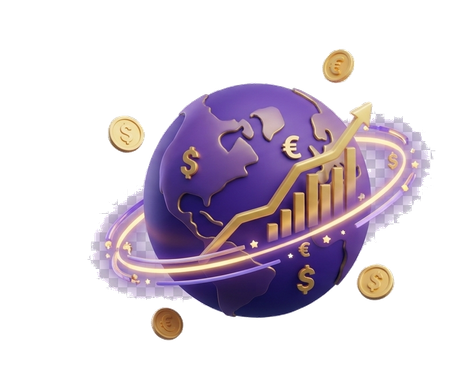
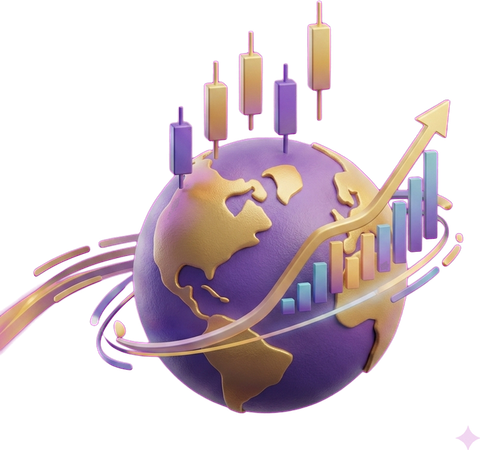
Rediseñar los planetas del hero de "Qué enseña la app" (Obol Aprende.dc.html)
Nuevos assets con fondo magenta sólido (más limpios que los anteriores en ajedrezado), y el cuarto planeta cambia de "juegos" a "conocimiento" (observatorio, libros, fórmulas). Se adopta el estilo de animación del diseño: flotación idle sutil + giro 3D en eje al pasar el mouse (antes era una rotación 2D simple).

diff --git a/docs/aprende.html b/docs/aprende.html
@@ -48,19 +48,29 @@
   @media (prefers-reduced-motion: reduce) {
     .obol-rise, .obol-reveal { animation: none !important; opacity: 1 !important; transform: none !important; }
   }
-  @keyframes obolPlanetFloat { 0%,100% { transform: translateY(0); } 50% { transform: translateY(-10px); } }
-  .obol-planet { animation: obolPlanetFloat 6s ease-in-out infinite; }
-  .obol-planet img { transition: transform 1.1s cubic-bezier(.34,.06,.16,.96); transform-origin: 50% 50%; }
-  .obol-planet:hover img, .obol-planet:focus-visible img { transform: rotate(1turn); }
-  @media (max-width: 900px) {
+  @keyframes obolFadeIn { from { opacity: 0; } to { opacity: 1; } }
+  @keyframes obolFloat { 0%, 100% { transform: translate3d(0,-10px,0); } 50% { transform: translate3d(0,10px,0); } }
+  @keyframes obolSpinAxis {
+    0%   { transform: perspective(900px) rotateX(4deg) rotateY(0deg) scale(1); }
+    25%  { transform: perspective(900px) rotateX(2deg) rotateY(36deg) scale(.985); }
+    50%  { transform: perspective(900px) rotateX(4deg) rotateY(0deg) scale(1); }
+    75%  { transform: perspective(900px) rotateX(6deg) rotateY(-36deg) scale(.985); }
+    100% { transform: perspective(900px) rotateX(4deg) rotateY(0deg) scale(1); }
+  }
+  .obol-planet { position: absolute; opacity: 0; z-index: 1; animation: obolFadeIn 1.2s ease .25s forwards, obolFloat 6s ease-in-out 1.4s infinite; }
+  .obol-planet > span { display: block; transition: transform .4s cubic-bezier(.22,.61,.36,1); }
+  .obol-planet:hover > span { transform: scale(1.05); }
+  .obol-planet img { display: block; width: 100%; height: auto; }
+  .obol-planet:hover img { animation: obolSpinAxis 4.2s cubic-bezier(.45,0,.55,1) infinite; transform-style: preserve-3d; }
+  @media (max-width: 1120px) {
     .obol-planet { display: none; }
   }
   @media (max-width: 640px) {
     .nav-text-link { display: none; }
   }
   @media (prefers-reduced-motion: reduce) {
-    .obol-planet { animation: none; }
-    .obol-planet img { transition: none; }
+    .obol-planet { animation: none !important; opacity: 1 !important; }
+    .obol-planet > span, .obol-planet img { animation: none !important; transform: none !important; }
   }
 </style>
 </head>
@@ -85,17 +95,17 @@
     <div style="position:absolute;inset:0;background-image:radial-gradient(circle at 82% 18%,rgba(74,124,224,.26),transparent 55%);pointer-events:none;"></div>
     <div style="position:absolute;inset:0;background-image:linear-gradient(rgba(255,255,255,.035) 1px,transparent 1px),linear-gradient(90deg,rgba(255,255,255,.035) 1px,transparent 1px);background-size:44px 44px;-webkit-mask-image:linear-gradient(180deg,rgba(0,0,0,.85),transparent 82%);mask-image:linear-gradient(180deg,rgba(0,0,0,.85),transparent 82%);pointer-events:none;"></div>
 
-    <div class="obol-planet" aria-hidden="true" style="position:absolute;top:6%;left:1%;width:clamp(150px,16vw,240px);animation-delay:.2s;">
-      <img src="./assets/aprende2/planet_ahorro.png" alt="" style="width:100%;height:auto;display:block;filter:drop-shadow(0 16px 26px rgba(4,10,24,.5));">
+    <div class="obol-planet" aria-hidden="true" style="left:12%;top:30%;width:clamp(146px,15.3vw,244px);transform:translate(-43.1%,-62.5%);">
+      <span><img src="./assets/aprende2/planet_ahorro.png" alt="Mundo del ahorro" style="filter:drop-shadow(0 26px 30px rgba(4,10,26,.5)) drop-shadow(0 0 46px rgba(94,196,160,.22));"></span>
     </div>
-    <div class="obol-planet" aria-hidden="true" style="position:absolute;top:2%;right:1%;width:clamp(150px,16vw,240px);animation-delay:.9s;">
-      <img src="./assets/aprende2/planet_mercados.png" alt="" style="width:100%;height:auto;display:block;filter:drop-shadow(0 16px 26px rgba(4,10,24,.5));">
+    <div class="obol-planet" aria-hidden="true" style="left:88%;top:30%;width:clamp(177px,18.6vw,296px);transform:translate(-56.0%,-60.9%);animation-delay:.3s;">
+      <span><img src="./assets/aprende2/planet_mercados.png" alt="Mundo de mercados e inversiones" style="filter:drop-shadow(0 26px 30px rgba(4,10,26,.5)) drop-shadow(0 0 48px rgba(150,110,235,.28));"></span>
     </div>
-    <div class="obol-planet" aria-hidden="true" style="position:absolute;bottom:0%;right:4%;width:clamp(130px,13vw,200px);animation-delay:1.5s;">
-      <img src="./assets/aprende2/planet_juegos.png" alt="" style="width:100%;height:auto;display:block;filter:drop-shadow(0 16px 26px rgba(4,10,24,.5));">
+    <div class="obol-planet" aria-hidden="true" style="left:15%;top:76%;width:clamp(147px,15.4vw,245px);transform:translate(-47.4%,-61.3%);animation-delay:.55s;">
+      <span><img src="./assets/aprende2/planet_argentina.png" alt="Mundo de la economía argentina" style="filter:drop-shadow(0 26px 30px rgba(4,10,26,.5)) drop-shadow(0 0 44px rgba(120,180,235,.22));"></span>
     </div>
-    <div class="obol-planet" aria-hidden="true" style="position:absolute;bottom:2%;left:4%;width:clamp(150px,16vw,240px);animation-delay:.55s;">
-      <img src="./assets/aprende2/planet_argentina.png" alt="" style="width:100%;height:auto;display:block;filter:drop-shadow(0 16px 26px rgba(4,10,24,.5));">
+    <div class="obol-planet" aria-hidden="true" style="left:85%;top:76%;width:clamp(146px,15.3vw,244px);transform:translate(-47.4%,-58.0%);animation-delay:.15s;">
+      <span><img src="./assets/aprende2/planet_conocimiento.png" alt="Mundo del conocimiento" style="filter:drop-shadow(0 26px 30px rgba(4,10,26,.5)) drop-shadow(0 0 46px rgba(255,150,80,.26));"></span>
     </div>
 
     <div style="position:relative;max-width:820px;margin:0 auto;text-align:center;display:flex;flex-direction:column;align-items:center;gap:22px;">
